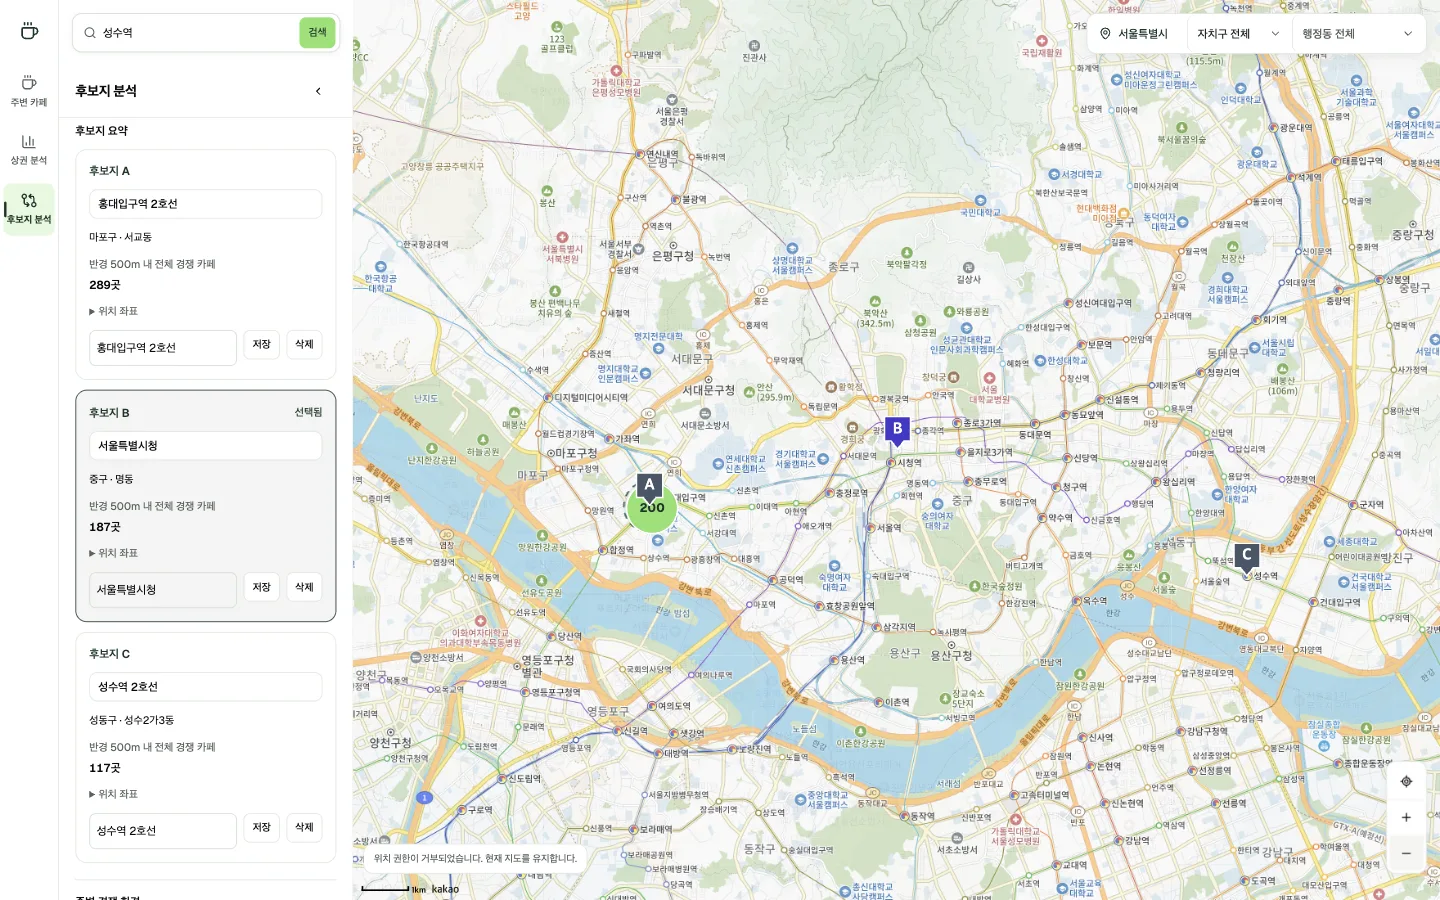
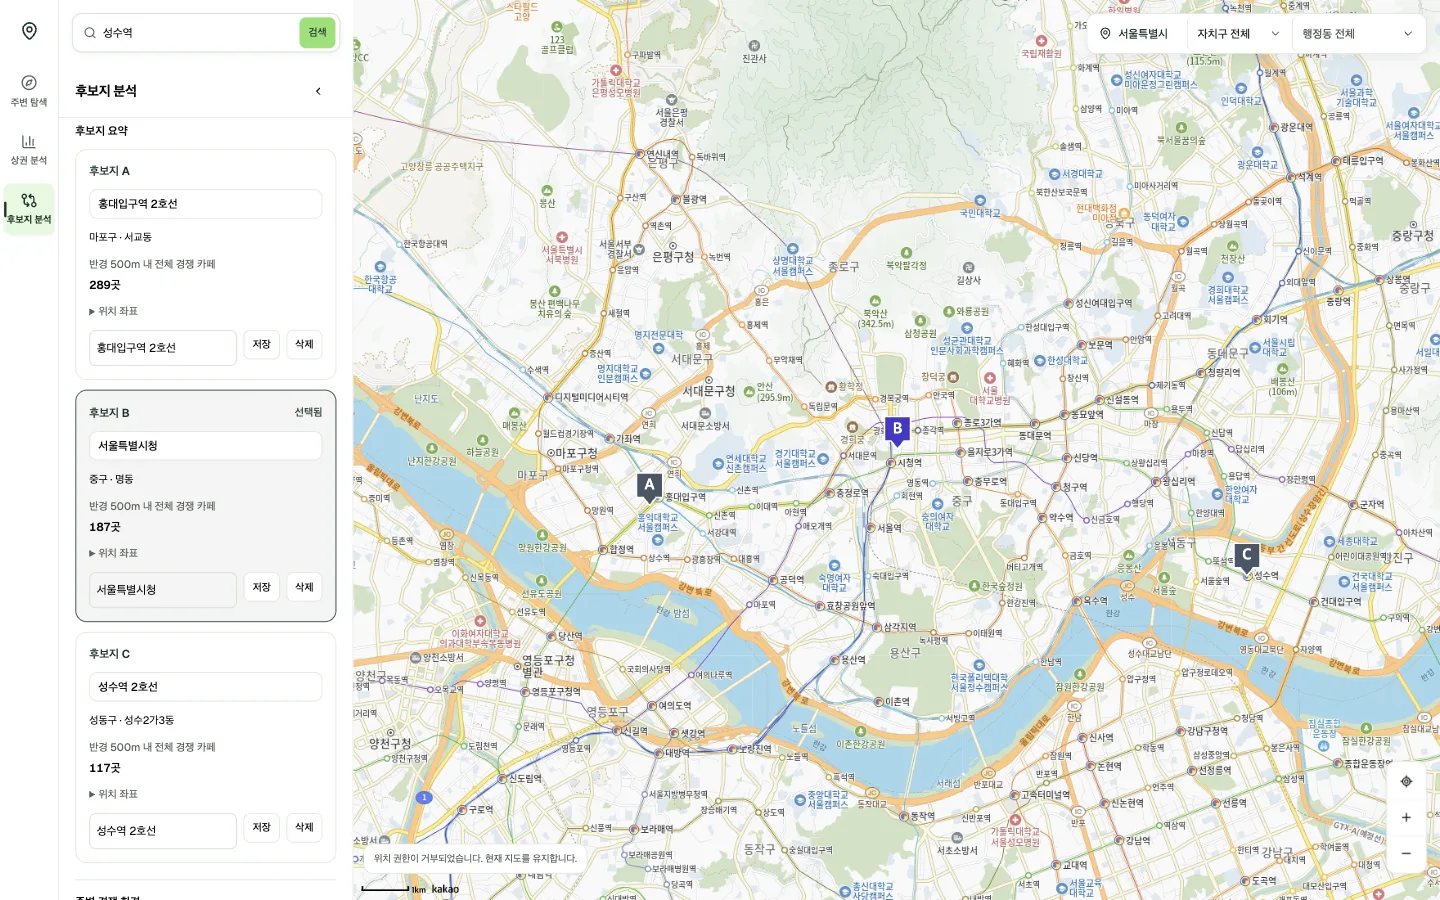
refactor(frontend): 탐색 화면 브랜딩 및 주변 탐색 UI 통일

diff --git a/frontend/src/components/explore-panel.tsx b/frontend/src/components/explore-panel.tsx
@@ -78,7 +78,7 @@ function CafePanel({ cafes }: { cafes: CafeExplorer }) {
       <section aria-labelledby="nearby-heading" className="flex flex-col gap-4">
         <div
           role="group"
-          aria-label="카페 탐색 방식"
+          aria-label="주변 탐색 방식"
           className="grid grid-cols-2 gap-2"
         >
           <Button
@@ -102,9 +102,10 @@ function CafePanel({ cafes }: { cafes: CafeExplorer }) {
           {nearby ? '선택 지점 주변 카페' : '현재 지도 영역 카페'}
         </h3>
         <p className="text-sm leading-6 text-muted-foreground">
+          현재는 카페 업종을 지원합니다.{' '}
           {nearby
-            ? '선택 지점의 실제 반경으로 조회합니다. 구·동 필터를 적용하지 않습니다.'
-            : '지도 사각 영역과 선택한 구·동 경계에 포함된 카페입니다. 반경 검색 결과는 아닙니다.'}
+            ? '선택한 지점과 설정한 반경만 기준으로 카페를 조회합니다.'
+            : '현재 지도에 보이는 영역에서 카페를 조회합니다. 구·동을 선택하면 해당 경계 안으로 범위를 좁힙니다.'}
         </p>
         {nearby && (
           <>
@@ -177,7 +178,7 @@ function CafePanel({ cafes }: { cafes: CafeExplorer }) {
             {nearby
               ? '중심점을 선택하면 반경 내 카페를 조회합니다.'
               : cafes.needsZoom
-                ? '자치구를 선택하거나 지도를 확대하면 카페를 조회합니다. 아직 카페를 조회하지 않았습니다.'
+                ? '자치구를 선택하거나 지도를 확대하면 카페를 조회합니다.'
                 : '지도 준비 또는 지역 이동 후 현재 영역을 조회합니다.'}
           </p>
         )}
@@ -190,8 +191,8 @@ function CafePanel({ cafes }: { cafes: CafeExplorer }) {
               {cafes.items.length.toLocaleString('ko-KR')}곳 표시
             </p>
             <p className="text-xs leading-5 text-muted-foreground">
-              지도에는 조회된 최대 200곳의 분포만 표시합니다. 묶음 숫자는 현재
-              포함된 마커 수이며, 확대하면 개별 카페를 볼 수 있습니다.
+              지도에 표시된 묶음의 숫자는 포함된 카페 수입니다. 지도를 확대하면
+              개별 카페를 볼 수 있습니다.
             </p>
             {cafes.data.hasMore && (
               <p className="text-xs leading-5 text-muted-foreground">

diff --git a/frontend/src/App.tsx b/frontend/src/App.tsx
@@ -1,6 +1,12 @@
 import { useLayoutEffect, useRef, useState } from 'react';
 import { Link } from 'react-router';
-import { BarChart3, ChevronLeft, Coffee, GitCompareArrows } from 'lucide-react';
+import {
+  BarChart3,
+  ChevronLeft,
+  Compass,
+  GitCompareArrows,
+  MapPin,
+} from 'lucide-react';
 import { Button } from '@/components/ui/button';
 import { ExplorePanel, type ExploreMenu } from '@/components/explore-panel';
 import { PlaceSearch } from '@/components/place-search';
@@ -16,7 +22,7 @@ import { CandidatePanel } from '@/components/candidate-panel';
 import type { Candidate } from '@/lib/candidates';
 
 const menus = [
-  { id: 'cafes', label: '주변 카페', Icon: Coffee },
+  { id: 'cafes', label: '주변 탐색', Icon: Compass },
   { id: 'analysis', label: '상권 분석', Icon: BarChart3 },
   { id: 'compare', label: '후보지 분석', Icon: GitCompareArrows },
 ] as const;
@@ -85,7 +91,7 @@ export default function App() {
       </a>
       <main
         id="explore-main"
-        aria-label="RecycleYoungs 탐색 화면"
+        aria-label="여기 창업해도 돼? 탐색 화면"
         tabIndex={-1}
         className="relative flex min-h-0 flex-1 flex-col outline-none md:flex-row"
         onKeyDown={(event) => {
@@ -97,11 +103,11 @@ export default function App() {
       >
         <Link
           to="/"
-          aria-label="RecycleYoungs 홈으로"
-          title="RecycleYoungs 홈으로"
+          aria-label="여기 창업해도 돼? 홈으로"
+          title="여기 창업해도 돼? 홈으로"
           className="explore-home"
         >
-          <Coffee aria-hidden="true" />
+          <MapPin aria-hidden="true" />
         </Link>
         <nav
           aria-label="탐색 메뉴"

diff --git a/frontend/e2e/explore.spec.ts b/frontend/e2e/explore.spec.ts
@@ -25,7 +25,7 @@ test('랜딩에서 시작하기로 탐색 이동', async ({ page }) => {
   await hero.getByRole('link', { name: '시작하기', exact: true }).click();
   await expect(page).toHaveURL('/explore');
   await expect(
-    page.getByRole('main', { name: 'RecycleYoungs 탐색 화면' }),
+    page.getByRole('main', { name: '여기 창업해도 돼? 탐색 화면' }),
   ).toBeFocused();
   await noOverflow(page);
 });
@@ -33,7 +33,7 @@ test('랜딩에서 시작하기로 탐색 이동', async ({ page }) => {
 test('직접 탐색 접속과 SDK 키 누락 안내', async ({ page }) => {
   await page.goto('/explore');
   await expect(
-    page.getByRole('main', { name: 'RecycleYoungs 탐색 화면' }),
+    page.getByRole('main', { name: '여기 창업해도 돼? 탐색 화면' }),
   ).toBeVisible();
   await expect(
     page.getByText(
@@ -60,7 +60,7 @@ test('잘못된 주소의 404와 홈 복귀', async ({ page }) => {
 
 test('세 메뉴 전환, 닫기와 Escape 포커스', async ({ page }) => {
   await page.goto('/explore');
-  for (const name of ['주변 카페', '상권 분석', '후보지 분석']) {
+  for (const name of ['주변 탐색', '상권 분석', '후보지 분석']) {
     const menu = page.getByRole('button', { name, exact: true });
     await menu.click();
     await expect(

diff --git a/frontend/src/pages/landing-page.tsx b/frontend/src/pages/landing-page.tsx
@@ -234,7 +234,7 @@ export default function LandingPage() {
 
             <figure className="landing-hero-stage">
               <div className="landing-preview landing-preview-hero">
-                <PreviewBar label="주변 카페" />
+                <PreviewBar label="주변 탐색" />
                 <picture>
                   <source
                     media="(width < 600px)"
